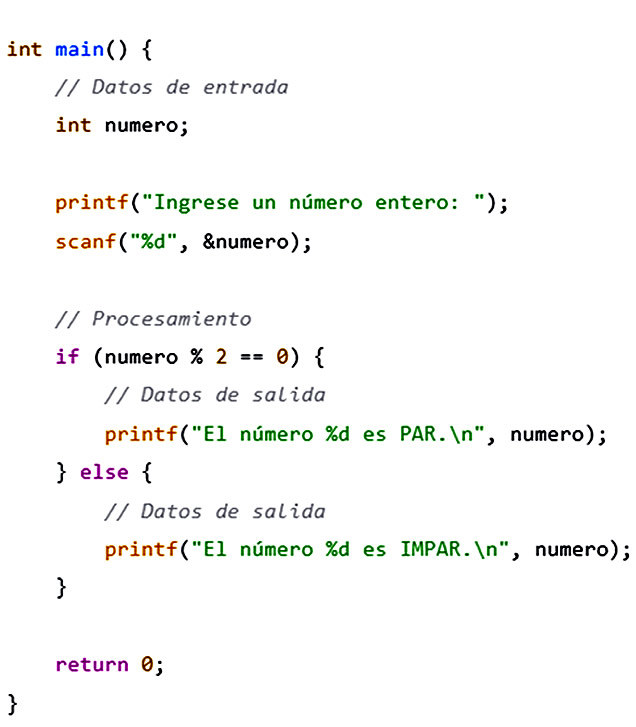
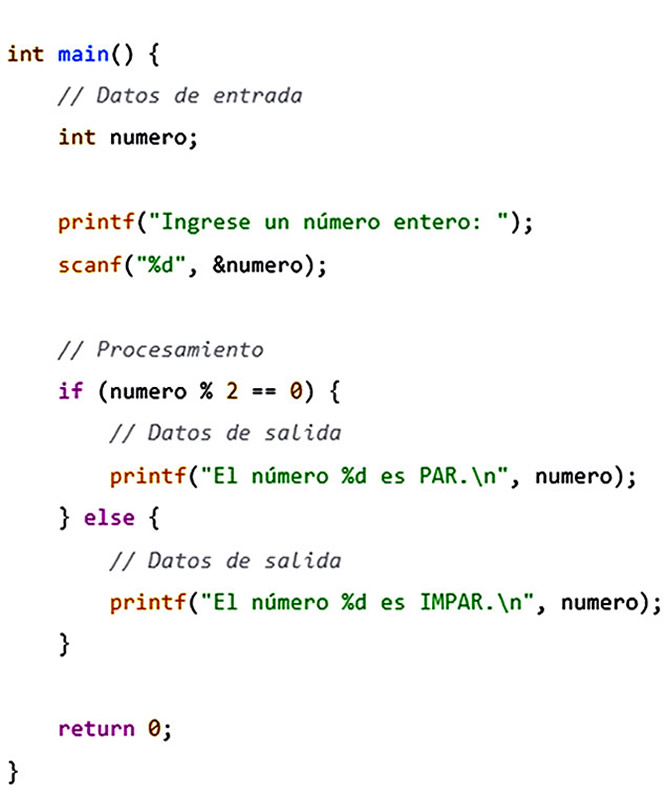
Commit 3

diff --git a/index.html b/index.html
@@ -527,9 +527,10 @@
                             digitales en las actividades de aprendizaje. Estos recursos te proporcionarán el
                             conocimiento teórico necesario para desarrollar las evidencias de aprendizaje que deberás
                             entregar durante las sesiones de clase.</p>
-                        <p><strong>2. Colaborativo:</strong><br> Participa en debates y comparte con tus compañeros tus
-                            reflexiones sobre los diferentes temas. Esta interacción fomentará una retroalimentación
-                            conjunta que ayudará a aclarar dudas y enriquecer tu aprendizaje.</p>
+                        <p><strong>2. Colaborativo:</strong><br> Durante la clase participa activamente en los debates y
+                            comparte con tus compañeros tus ideas y reflexiones sobre los temas tratados. Esta dinámica
+                            en el aula favorecerá la retroalimentación colectiva, permitirá resolver dudas en conjunto y
+                            enriquecerá tu proceso de aprendizaje en cada sesión.</p>
                         <h4>Recomendaciones</h4>
                         <p>Es fundamental que te comprometas con tu aprendizaje, dedicando tiempo y entusiasmo a las
                             actividades, con el fin de desarrollar las habilidades, actitudes y conocimientos
@@ -654,7 +655,7 @@
                                     <p>Correo: floresya@hotmail.com</p>
                                 </div>
 
-                                <p>Semblanza: Ingeniero en sstemas ccmputacionales, maestro en ciencias de la computación y
+                                <p>Semblanza: Ingeniero en sistemas computacionales, maestro en ciencias de la computación y
                                    doctor en educación. Docente de tiempo completo del departamento de Ciencias e Ingeniería
                                    de la Computación de la Escom.</p>
                                 <p>

diff --git a/Cuestionario1_1.html b/Cuestionario1_1.html
@@ -425,7 +425,7 @@
         <div class="botones">
             <button class="btn btn-validar" type="button" id="validar" onclick="submitForm()">Validar
                 respuestas</button>
-            <button class="btn btn-reset" type="button" id="resetear" onclick="reset()">Resetear marcas</button>
+            <button class="btn btn-reset" type="button" id="resetear" onclick="reset()">Reiniciar preguntas</button>
         </div>
 
         <div class="resultados" id="resultados">

diff --git a/Cuestionario1_2.html b/Cuestionario1_2.html
@@ -419,7 +419,7 @@
         <div class="botones">
             <button class="btn btn-validar" type="button" id="validar" onclick="submitForm()">Validar
                 respuestas</button>
-            <button class="btn btn-reset" type="button" id="resetear" onclick="reset()">Resetear marcas</button>
+            <button class="btn btn-reset" type="button" id="resetear" onclick="reset()">Reiniciar preguntas</button>
         </div>
 
         <div class="resultados" id="resultados">

diff --git a/Cuestionario1_3.html b/Cuestionario1_3.html
@@ -384,7 +384,7 @@
         <div class="botones">
             <button class="btn btn-validar" type="button" id="validar" onclick="submitForm()">Validar
                 respuestas</button>
-            <button class="btn btn-reset" type="button" id="resetear" onclick="reset()">Resetear marcas</button>
+            <button class="btn btn-reset" type="button" id="resetear" onclick="reset()">Reiniciar preguntas</button>
         </div>
 
 

diff --git a/Cuestionario1_4.html b/Cuestionario1_4.html
@@ -406,7 +406,7 @@
 
         <div class="botones">
             <button class="btn btn-validar" type="button" id="validar">Validar respuestas</button>
-            <button class="btn btn-reset" type="button" id="resetear">Resetear marcas</button>
+            <button class="btn btn-reset" type="button" id="resetear">Reiniciar preguntas</button>
         </div>
 
         <div class="resultados" id="resultados">
